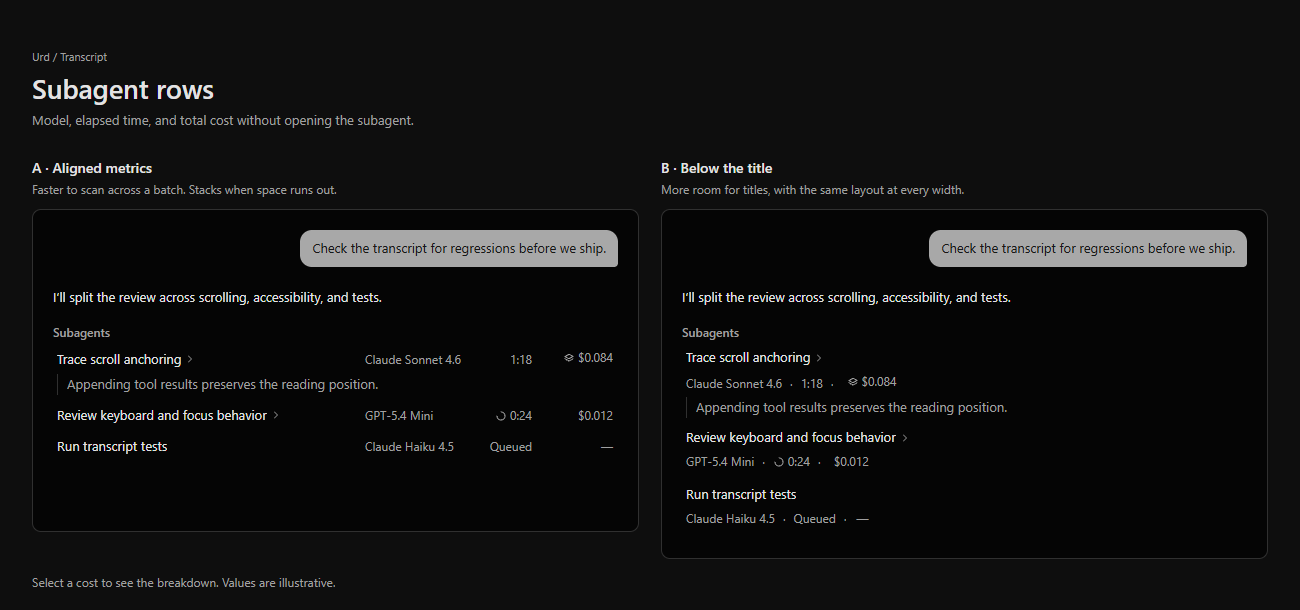
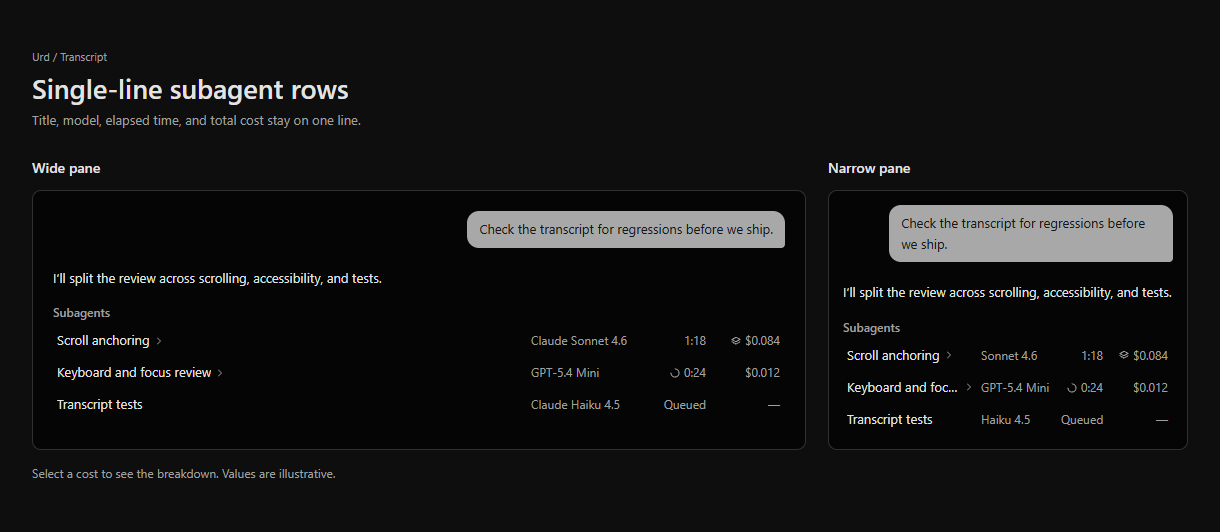
Keep subagent row mockup on one line at every width

diff --git a/docs/mockups/subagent-rows/index.html b/docs/mockups/subagent-rows/index.html
@@ -3,7 +3,7 @@
 <head>
   <meta charset="utf-8">
   <meta name="viewport" content="width=device-width, initial-scale=1">
-  <title>Urd · Subagent row mockups</title>
+  <title>Urd · Single-line subagent rows</title>
   <style>
     :root {
       color-scheme: dark;
@@ -31,14 +31,13 @@
     .intro { margin-bottom: 27px; }
     .eyebrow { margin-bottom: 5px; color: var(--text-secondary); font-size: 11px; }
     h1 { margin-bottom: 4px; font-size: 27px; font-weight: 620; line-height: 1.3; }
-    .intro p, .option-label p, .footnote { color: var(--text-secondary); }
-    .options { display: grid; grid-template-columns: repeat(2, minmax(0, 1fr)); gap: 22px; }
-    .option { min-width: 0; container-type: inline-size; }
-    .option-label { margin-bottom: 10px; }
-    .option-label h2 { font-size: 14px; font-weight: 600; }
-    .option-label p { font-size: 12px; }
+    .intro p, .footnote { color: var(--text-secondary); }
+    .panes { display: grid; grid-template-columns: minmax(0, 1fr) minmax(0, 360px); gap: 22px; }
+    .pane { display: flex; flex-direction: column; min-width: 0; container-type: inline-size; }
+    .pane h2 { margin-bottom: 10px; font-size: 14px; font-weight: 600; }
     .transcript {
-      min-height: 323px;
+      flex: 1;
+      min-height: 240px;
       padding: 20px;
       border: 1px solid var(--border-subtle);
       border-radius: 9px;
@@ -56,31 +55,24 @@
     .assistant { margin-bottom: 15px; }
     .list-heading { margin-bottom: 2px; color: var(--text-secondary); font-size: 12px; font-weight: 500; }
     .rows { padding: 0; list-style-type: none; }
-    .row { margin-bottom: 3px; }
-    .row:last-child { margin-bottom: 0; }
-    .row-header { display: flex; align-items: baseline; gap: 10px; min-width: 0; }
+    .row {
+      display: grid;
+      grid-template-columns: minmax(0, 1fr) 115px 50px 69px;
+      align-items: center;
+      gap: 10px;
+      min-height: 32px;
+    }
     .row-title {
-      display: inline-flex;
+      display: flex;
       align-items: center;
       gap: 3px;
       min-width: 0;
-      min-height: 28px;
       padding-left: 4px;
     }
-    .row-title span { overflow: hidden; text-overflow: ellipsis; white-space: nowrap; }
-    .row-title .icon { color: var(--text-secondary); }
-    .metrics {
-      display: grid;
-      grid-template-columns: minmax(0, 1fr) 57px 79px;
-      align-items: baseline;
-      gap: 7px;
-      flex: 0 0 253px;
-      margin-left: auto;
-      color: var(--text-secondary);
-      font-size: 12px;
-      white-space: nowrap;
-    }
-    .model { min-width: 0; overflow: hidden; text-overflow: ellipsis; }
+    .row-title span, .model { overflow: hidden; text-overflow: ellipsis; white-space: nowrap; }
+    .row-title .icon, .model, .elapsed, .cost { color: var(--text-secondary); }
+    .model, .elapsed, .cost { font-size: 12px; white-space: nowrap; }
+    .model-short { display: none; }
     .elapsed { text-align: right; }
     .elapsed, .amount { font-variant-numeric: tabular-nums; }
     .elapsed .icon { margin-right: 3px; vertical-align: -2px; }
@@ -88,18 +80,12 @@
     .cost-button, .cost-missing { display: inline-flex; align-items: center; gap: 3px; min-height: 28px; padding: 0 5px; }
     .cost-button { border: 0; border-radius: 4px; background: transparent; cursor: pointer; }
     .cost-button:hover, .cost-button[aria-expanded="true"] { background: var(--surface-hover); color: var(--text-primary); }
-    .report {
-      margin: 1px 0 6px 4px;
-      padding-left: 9px;
-      border-left: 1px solid var(--border-subtle);
-      color: var(--text-secondary);
-    }
     .cost-detail {
       position: absolute;
       z-index: 1;
-      inset: calc(100% + 3px) 0 auto auto;
+      inset: auto 0 calc(100% + 3px) auto;
       width: 224px;
-      max-width: calc(100cqi - 40px);
+      max-width: calc(100cqi - 30px);
       padding: 9px 11px;
       border: 1px solid var(--border-subtle);
       border-radius: 7px;
@@ -113,33 +99,19 @@
     .cost-total { margin-top: 5px; padding-top: 5px; border-top: 1px solid var(--border-subtle); color: var(--text-primary); }
     .footnote { margin-top: 14px; font-size: 12px; }
 
-    .compact .row-title { flex: 1 1 auto; }
-    .stacked .row-header { display: grid; gap: 0; }
-    .stacked .row-title { justify-self: start; max-width: 100%; }
-    .stacked .metrics { display: flex; align-items: baseline; gap: 8px; min-width: 0; margin: -4px 0 0 4px; }
-    .stacked .metrics > :not(:first-child)::before { content: "·"; margin-right: 8px; }
-    .stacked .cost-button, .stacked .cost-missing { margin-left: -3px; }
-    .stacked .row { position: relative; margin-bottom: 5px; }
-    .stacked .cost { position: static; }
-    .stacked .cost-detail { inset: 51px auto auto 4px; }
-
     @container (max-width: 485px) {
-      .compact .row-header { display: grid; gap: 0; }
-      .compact .row-title { justify-self: start; max-width: 100%; }
-      .compact .metrics { display: flex; align-items: baseline; gap: 8px; min-width: 0; margin: -4px 0 0 4px; }
-      .compact .metrics > :not(:first-child)::before { content: "·"; margin-right: 8px; }
-      .compact .cost-button, .compact .cost-missing { margin-left: -3px; }
-      .compact .row { position: relative; margin-bottom: 5px; }
-      .compact .cost { position: static; }
-      .compact .cost-detail { inset: 51px auto auto 4px; }
+      .transcript { padding: 14px; }
+      .row { grid-template-columns: minmax(0, 1fr) 74px 42px 64px; gap: 6px; }
+      .model-full { display: none; }
+      .model-short { display: inline; }
     }
-    @media (max-width: 1060px) {
+    @media (max-width: 850px) {
       .board { max-width: 700px; }
-      .options { grid-template-columns: minmax(0, 1fr); }
+      .panes { grid-template-columns: minmax(0, 1fr); }
+      .narrow { width: min(100%, 360px); }
     }
     @media (max-width: 550px) {
       .board { padding: 25px 15px; }
-      .transcript { padding: 14px; }
     }
   </style>
 </head>
@@ -159,24 +131,18 @@
   <main class="board">
     <header class="intro">
       <p class="eyebrow">Urd / Transcript</p>
-      <h1>Subagent rows</h1>
-      <p>Model, elapsed time, and total cost without opening the subagent.</p>
+      <h1>Single-line subagent rows</h1>
+      <p>Title, model, elapsed time, and total cost stay on one line.</p>
     </header>
 
-    <div class="options">
-      <section class="option compact" aria-labelledby="compact-label">
-        <header class="option-label">
-          <h2 id="compact-label">A · Aligned metrics</h2>
-          <p>Faster to scan across a batch. Stacks when space runs out.</p>
-        </header>
-        <div class="transcript" data-preview="a"></div>
+    <div class="panes">
+      <section class="pane" aria-labelledby="wide-label">
+        <h2 id="wide-label">Wide pane</h2>
+        <div class="transcript" data-preview="wide"></div>
       </section>
-      <section class="option stacked" aria-labelledby="stacked-label">
-        <header class="option-label">
-          <h2 id="stacked-label">B · Below the title</h2>
-          <p>More room for titles, with the same layout at every width.</p>
-        </header>
-        <div class="transcript" data-preview="b"></div>
+      <section class="pane narrow" aria-labelledby="narrow-label">
+        <h2 id="narrow-label">Narrow pane</h2>
+        <div class="transcript" data-preview="narrow"></div>
       </section>
     </div>
     <p class="footnote">Select a cost to see the breakdown. Values are illustrative.</p>
@@ -188,60 +154,49 @@
     <h3 class="list-heading">Subagents</h3>
     <ul class="rows">
       <li class="row">
-        <div class="row-header">
-          <div class="row-title" title="Trace scroll anchoring">
-            <span>Trace scroll anchoring</span><svg class="icon" aria-hidden="true"><use href="#chevron"/></svg>
-          </div>
-          <div class="metrics">
-            <span class="model" title="Claude Sonnet 4.6">Claude Sonnet 4.6</span>
-            <span class="elapsed" title="1 minute 18 seconds elapsed"><time datetime="PT1M18S">1:18</time></span>
-            <span class="cost">
-              <button class="cost-button" type="button" aria-expanded="false" aria-label="Scroll anchoring cost: $0.084 including descendants">
-                <svg class="icon" aria-hidden="true"><use href="#layers"/></svg><span class="amount">$0.084</span>
-              </button>
-              <span class="cost-detail" hidden>
-                <span class="cost-heading">Cost breakdown</span>
-                <span class="cost-line"><span>This subagent</span><span class="amount">$0.031</span></span>
-                <span class="cost-line"><span>Nested subagents</span><span class="amount">$0.053</span></span>
-                <span class="cost-line cost-total"><span>Total</span><span class="amount">$0.084</span></span>
-              </span>
-            </span>
-          </div>
-        </div>
-        <p class="report">Appending tool results preserves the reading position.</p>
+        <span class="row-title" title="Scroll anchoring">
+          <span>Scroll anchoring</span><svg class="icon" aria-hidden="true"><use href="#chevron"/></svg>
+        </span>
+        <span class="model" title="Claude Sonnet 4.6">
+          <span class="model-full">Claude Sonnet 4.6</span><span class="model-short">Sonnet 4.6</span>
+        </span>
+        <span class="elapsed" title="1 minute 18 seconds elapsed"><time datetime="PT1M18S">1:18</time></span>
+        <span class="cost">
+          <button class="cost-button" type="button" aria-expanded="false" aria-label="Scroll anchoring cost: $0.084 including descendants">
+            <svg class="icon" aria-hidden="true"><use href="#layers"/></svg><span class="amount">$0.084</span>
+          </button>
+          <span class="cost-detail" hidden>
+            <span class="cost-heading">Cost breakdown</span>
+            <span class="cost-line"><span>This subagent</span><span class="amount">$0.031</span></span>
+            <span class="cost-line"><span>Nested subagents</span><span class="amount">$0.053</span></span>
+            <span class="cost-line cost-total"><span>Total</span><span class="amount">$0.084</span></span>
+          </span>
+        </span>
       </li>
       <li class="row">
-        <div class="row-header">
-          <div class="row-title" title="Review keyboard and focus behavior">
-            <span>Review keyboard and focus behavior</span><svg class="icon" aria-hidden="true"><use href="#chevron"/></svg>
-          </div>
-          <div class="metrics">
-            <span class="model" title="GPT-5.4 Mini">GPT-5.4 Mini</span>
-            <span class="elapsed" title="Running · 24 seconds elapsed"><svg class="icon" aria-hidden="true"><use href="#running"/></svg><time datetime="PT24S" aria-label="Running, 24 seconds elapsed">0:24</time></span>
-            <span class="cost">
-              <button class="cost-button" type="button" aria-expanded="false" aria-label="Keyboard and focus review cost so far: $0.012">
-                <span class="amount">$0.012</span>
-              </button>
-              <span class="cost-detail" hidden>
-                <span class="cost-heading">Cost so far</span>
-                <span class="cost-line"><span>This subagent</span><span class="amount">$0.012</span></span>
-                <span class="cost-line cost-total"><span>Total</span><span class="amount">$0.012</span></span>
-              </span>
-            </span>
-          </div>
-        </div>
+        <span class="row-title" title="Keyboard and focus review">
+          <span>Keyboard and focus review</span><svg class="icon" aria-hidden="true"><use href="#chevron"/></svg>
+        </span>
+        <span class="model" title="GPT-5.4 Mini">GPT-5.4 Mini</span>
+        <span class="elapsed" title="Running · 24 seconds elapsed"><svg class="icon" aria-hidden="true"><use href="#running"/></svg><time datetime="PT24S" aria-label="Running, 24 seconds elapsed">0:24</time></span>
+        <span class="cost">
+          <button class="cost-button" type="button" aria-expanded="false" aria-label="Keyboard and focus review cost so far: $0.012">
+            <span class="amount">$0.012</span>
+          </button>
+          <span class="cost-detail" hidden>
+            <span class="cost-heading">Cost so far</span>
+            <span class="cost-line"><span>This subagent</span><span class="amount">$0.012</span></span>
+            <span class="cost-line cost-total"><span>Total</span><span class="amount">$0.012</span></span>
+          </span>
+        </span>
       </li>
       <li class="row">
-        <div class="row-header">
-          <div class="row-title" title="Run transcript tests">
-            <span>Run transcript tests</span>
-          </div>
-          <div class="metrics">
-            <span class="model" title="Claude Haiku 4.5">Claude Haiku 4.5</span>
-            <span class="elapsed" title="Not started">Queued</span>
-            <span class="cost"><span class="cost-missing" title="Cost not available">—</span></span>
-          </div>
-        </div>
+        <span class="row-title" title="Transcript tests"><span>Transcript tests</span></span>
+        <span class="model" title="Claude Haiku 4.5">
+          <span class="model-full">Claude Haiku 4.5</span><span class="model-short">Haiku 4.5</span>
+        </span>
+        <span class="elapsed" title="Not started">Queued</span>
+        <span class="cost"><span class="cost-missing" title="Cost not available">—</span></span>
       </li>
     </ul>
   </template>

diff --git a/docs/mockups/subagent-rows/README.md b/docs/mockups/subagent-rows/README.md
@@ -1,12 +1,11 @@
 # Subagent rows
 
-[Interactive mockup](index.html) · [Wide comparison](preview.png) · [Narrow view with cost breakdown](narrow.png)
+[Interactive mockup](index.html) · [Wide and narrow panes](preview.png) · [Narrow pane with cost breakdown](narrow.png)
 
-**Recommendation: A, aligned metrics.** On wide panes, align the model, elapsed
-time, and total cost so adjacent rows are easy to compare. When space runs out,
-move the same metadata below the title. **B** does that at every width: it gives
-long titles more room, but takes more vertical space in a batch. In both layouts,
-keep the existing title navigation and report below the row.
+Keep the title, model, elapsed time, and total cost on one line at every width.
+Align the metrics across rows. In a narrow pane, use shorter model labels and
+truncate long titles rather than wrapping the row or hiding elapsed time or cost.
+Open the subagent from its title to read the report; don’t add an inline preview.
 
 ## What the numbers mean
 
